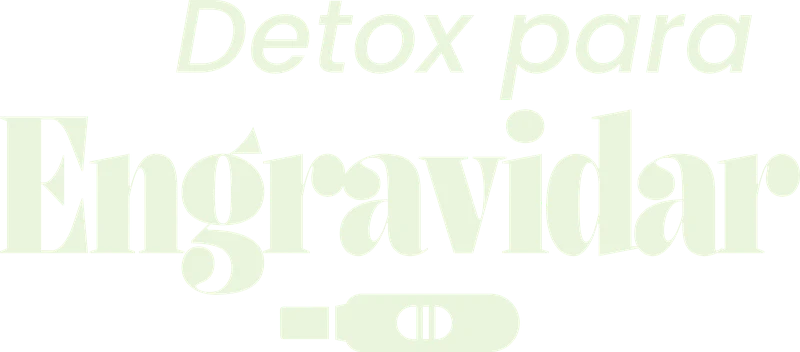
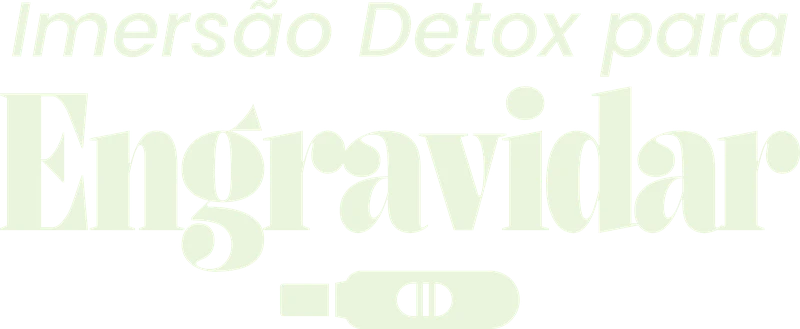
webinar: "Imersão" na marca (Imersão Detox para / Engravidar), pedido da Bruna 18/11

diff --git a/webinar/v3/index.html b/webinar/v3/index.html
@@ -42,7 +42,7 @@
 <section class="c-topo" id="hero">
   <div class="container c-topo-grid">
     <div class="c-topo-texto">
-      <img class="c-marca" src="/webinar/img/marca-detox-engravidar.webp" alt="Detox para Engravidar" width="800" height="352">
+      <img class="c-marca" src="/webinar/img/marca-detox-engravidar.webp?v=2" alt="Imersão Detox para Engravidar" width="800" height="329">
       <p class="c-etiqueta"><i></i>Imersão gratuita</p>
       <h1>Saia de um único encontro sabendo <em>o dia da sua ovulação</em>, qual fase da sua fertilidade está em desequilíbrio e o que mudar na sua rotina nos próximos 7 dias.</h1>
       <p class="c-sub">Um encontro ao vivo para você reconhecer os sinais de que o seu corpo está intoxicado e descobrir o seu próximo passo para engravidar.</p>

diff --git a/webinar/v2/index.html b/webinar/v2/index.html
@@ -42,7 +42,7 @@
 <section class="c-topo" id="hero">
   <div class="container c-topo-grid">
     <div class="c-topo-texto">
-      <img class="c-marca" src="/webinar/img/marca-detox-engravidar.webp" alt="Detox para Engravidar" width="800" height="352">
+      <img class="c-marca" src="/webinar/img/marca-detox-engravidar.webp?v=2" alt="Imersão Detox para Engravidar" width="800" height="329">
       <p class="c-etiqueta"><i></i>Imersão gratuita</p>
       <h1>Descubra de uma vez por todas o que está atrapalhando você de engravidar, <em>antes de mais um teste negativo ou de ir direto para a FIV.</em></h1>
       <p class="c-sub">Um encontro ao vivo para você reconhecer os sinais de que o seu corpo está intoxicado e descobrir o seu próximo passo para engravidar.</p>

diff --git a/webinar/v1/index.html b/webinar/v1/index.html
@@ -42,7 +42,7 @@
 <section class="c-topo" id="hero">
   <div class="container c-topo-grid">
     <div class="c-topo-texto">
-      <img class="c-marca" src="/webinar/img/marca-detox-engravidar.webp" alt="Detox para Engravidar" width="800" height="352">
+      <img class="c-marca" src="/webinar/img/marca-detox-engravidar.webp?v=2" alt="Imersão Detox para Engravidar" width="800" height="329">
       <p class="c-etiqueta"><i></i>Imersão gratuita</p>
       <h1>Descubra o real motivo que está te impedindo de engravidar, <em>mesmo com os seus exames normais.</em></h1>
       <p class="c-sub">Um encontro ao vivo para você reconhecer os sinais de que o seu corpo está intoxicado e descobrir o seu próximo passo para engravidar.</p>

diff --git a/webinar/_modelo.html b/webinar/_modelo.html
@@ -42,7 +42,7 @@
 <section class="c-topo" id="hero">
   <div class="container c-topo-grid">
     <div class="c-topo-texto">
-      <img class="c-marca" src="/webinar/img/marca-detox-engravidar.webp" alt="Detox para Engravidar" width="800" height="352">
+      <img class="c-marca" src="/webinar/img/marca-detox-engravidar.webp?v=2" alt="Imersão Detox para Engravidar" width="800" height="329">
       <p class="c-etiqueta"><i></i>Imersão gratuita</p>
       <h1>{{HEADLINE}}</h1>
       <p class="c-sub">Um encontro ao vivo para você reconhecer os sinais de que o seu corpo está intoxicado e descobrir o seu próximo passo para engravidar.</p>
